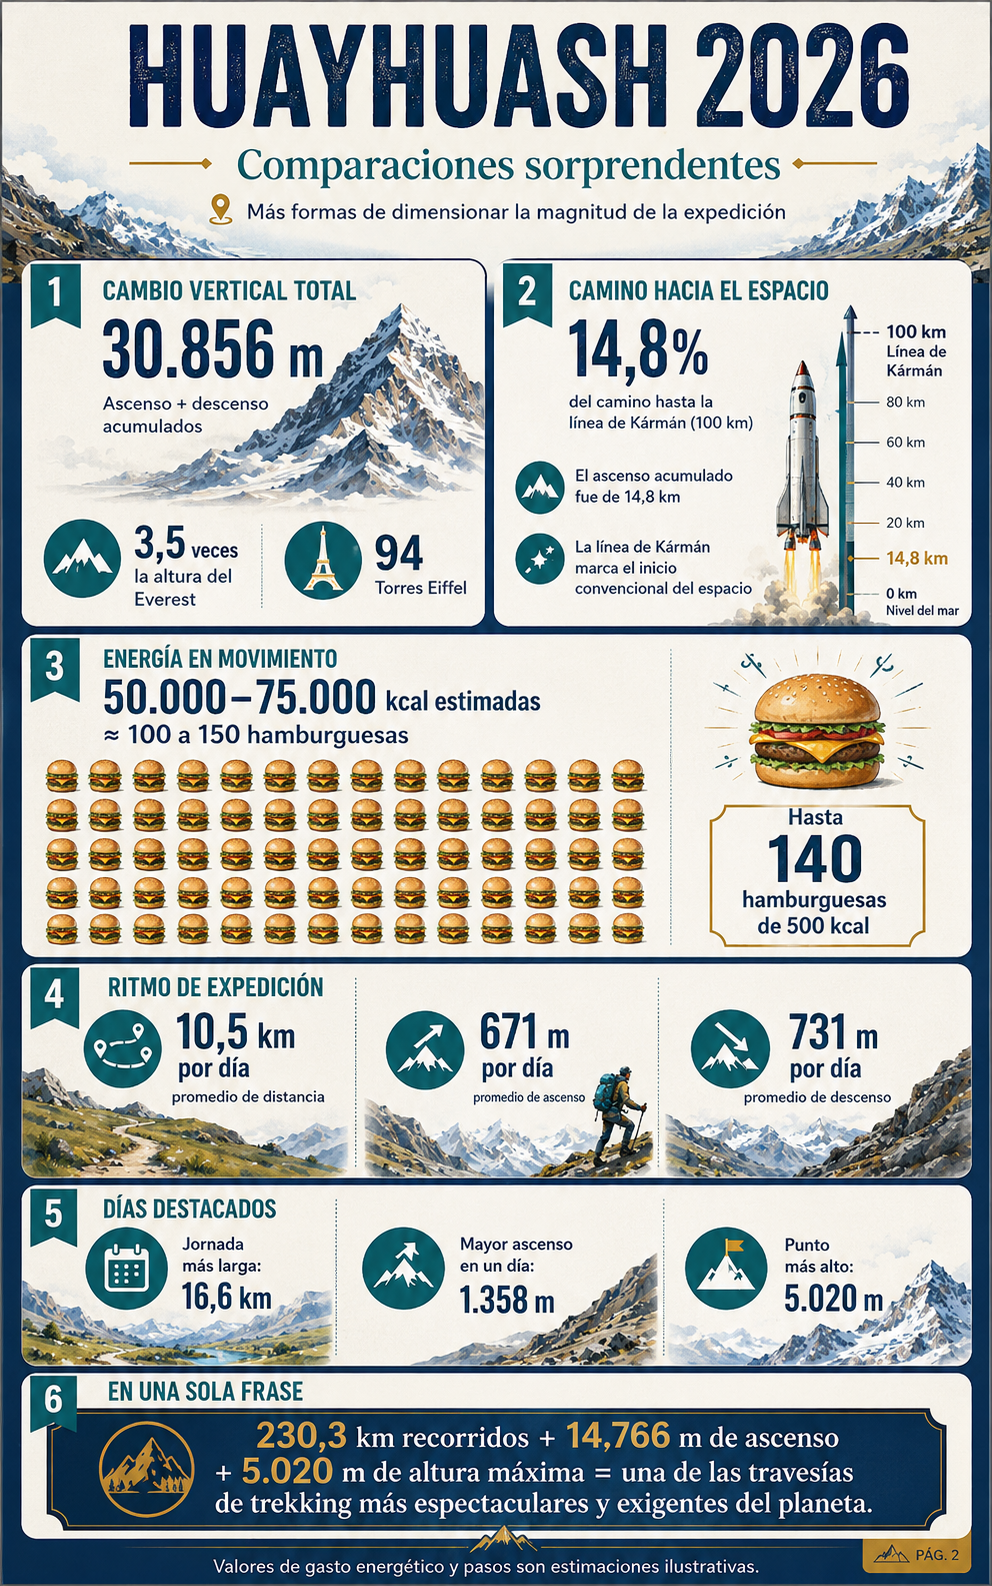
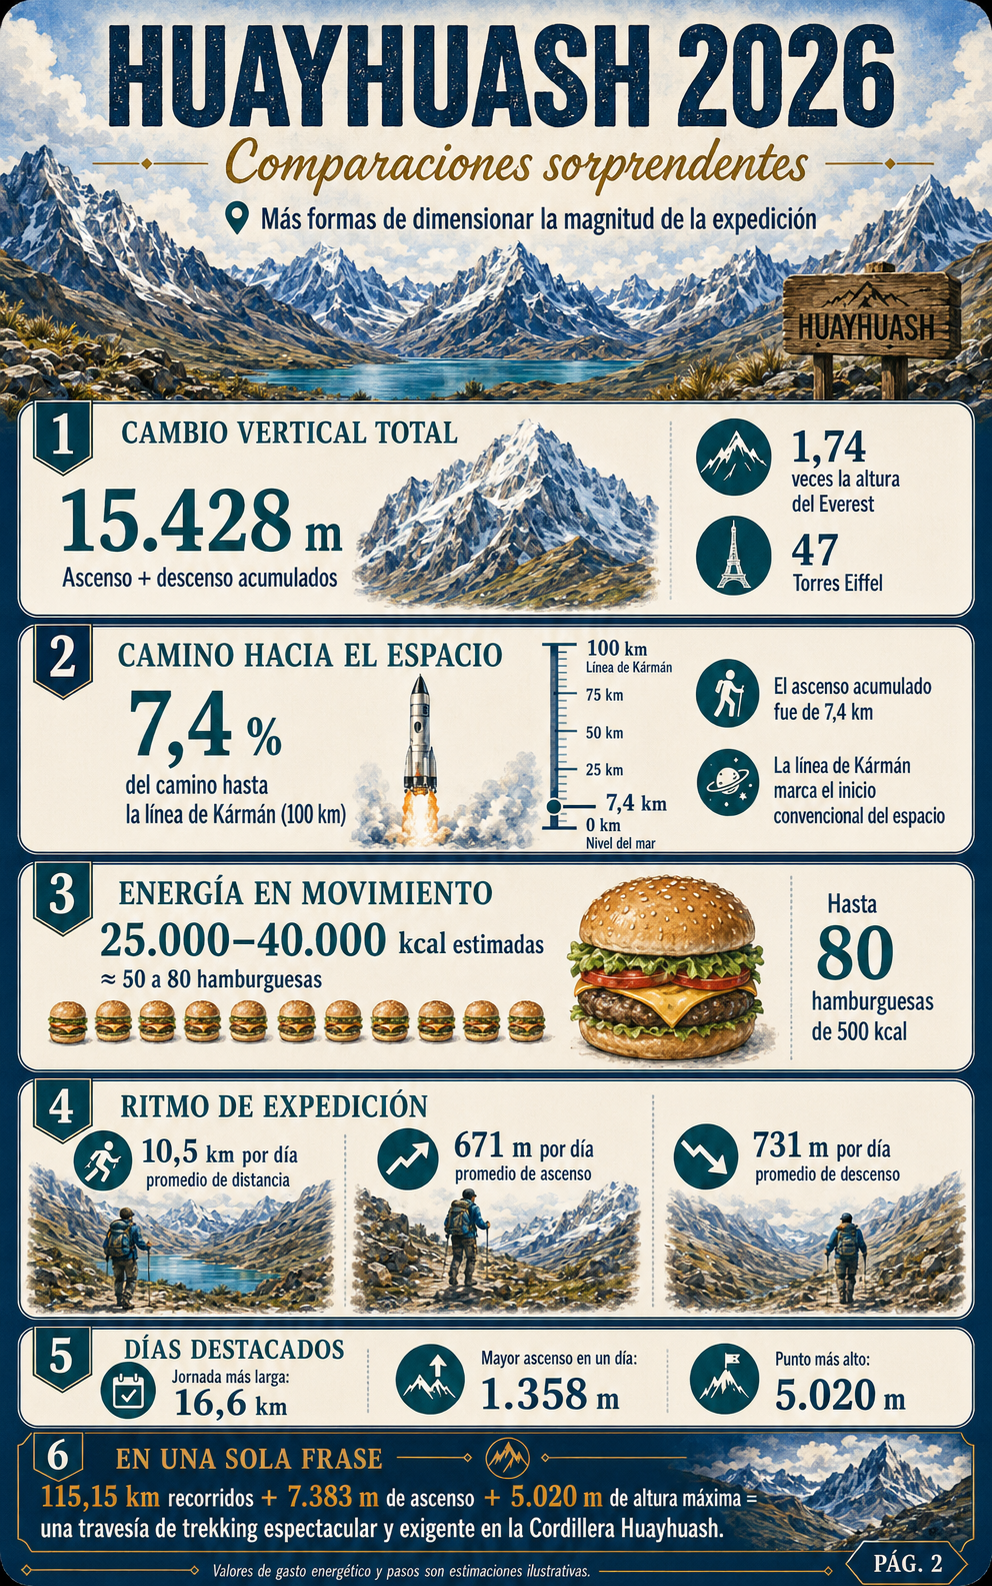
Correct Huayhuash expedition metrics

diff --git a/layouts/huayhuash/list.html b/layouts/huayhuash/list.html
@@ -28,17 +28,17 @@
           <section class="huayhuash-stat-grid" aria-label="Resumen principal de la expedición">
             <article class="huayhuash-stat-card">
               <span class="huayhuash-icon">01</span>
-              <strong>230,3 km</strong>
+              <strong>115,15 km</strong>
               <span>Distancia recorrida</span>
             </article>
             <article class="huayhuash-stat-card">
               <span class="huayhuash-icon">02</span>
-              <strong>14.766 m</strong>
+              <strong>7.383 m</strong>
               <span>Ascenso acumulado</span>
             </article>
             <article class="huayhuash-stat-card">
               <span class="huayhuash-icon">03</span>
-              <strong>16.090 m</strong>
+              <strong>8.045 m</strong>
               <span>Descenso acumulado</span>
             </article>
             <article class="huayhuash-stat-card">
@@ -57,11 +57,11 @@
               </div>
             </div>
             <div class="huayhuash-feature">
-              <strong>230,3 km</strong>
+              <strong>115,15 km</strong>
               <ul>
-                <li>5,5 maratones consecutivas</li>
-                <li>576 vueltas a una pista olímpica</li>
-                <li>Aproximadamente 307.000 pasos</li>
+                <li>2,73 maratones consecutivas</li>
+                <li>288 vueltas a una pista olímpica</li>
+                <li>Aproximadamente 153.500 pasos</li>
               </ul>
             </div>
           </section>
@@ -72,10 +72,10 @@
                 <span class="huayhuash-ribbon">2</span>
                 <div>
                   <p class="huayhuash-eyebrow">Ascenso acumulado</p>
-                  <h2>14.766 m</h2>
+                  <h2>7.383 m</h2>
                 </div>
               </div>
-              <p>Equivale a 45 Torres Eiffel, 17,8 Burj Khalifa y 1,67 veces la altura del Everest.</p>
+              <p>Equivale a 22,4 Torres Eiffel, 8,9 Burj Khalifa y 0,83 veces la altura del Everest.</p>
             </div>
             <div>
               <div class="huayhuash-panel-head">
@@ -99,15 +99,15 @@
             </div>
             <div class="huayhuash-comparison-grid">
               <div>
-                <strong>30.856 m</strong>
+                <strong>15.428 m</strong>
                 <span>Ascenso + descenso acumulados</span>
               </div>
               <div>
-                <strong>3,5 veces</strong>
+                <strong>1,74 veces</strong>
                 <span>la altura del Everest</span>
               </div>
               <div>
-                <strong>94</strong>
+                <strong>47</strong>
                 <span>Torres Eiffel</span>
               </div>
             </div>
@@ -119,20 +119,20 @@
                 <span class="huayhuash-ribbon">5</span>
                 <div>
                   <p class="huayhuash-eyebrow">Camino hacia el espacio</p>
-                  <h2>14,8%</h2>
+                  <h2>7,4%</h2>
                 </div>
               </div>
-              <p>Del camino hasta la línea de Kármán, ubicada a 100 km y usada como inicio convencional del espacio.</p>
+              <p>Del camino hasta la línea de Kármán, ubicada a 100 km y usada como inicio convencional del espacio. El ascenso acumulado fue de 7,4 km.</p>
             </div>
             <div>
               <div class="huayhuash-panel-head">
                 <span class="huayhuash-ribbon">6</span>
                 <div>
                   <p class="huayhuash-eyebrow">Energía en movimiento</p>
-                  <h2>50.000-75.000 kcal</h2>
+                  <h2>25.000-40.000 kcal</h2>
                 </div>
               </div>
-              <p>Gasto estimado equivalente a unas 100 a 150 hamburguesas, hasta 140 hamburguesas de 500 kcal.</p>
+              <p>Gasto estimado equivalente a unas 50 a 80 hamburguesas, hasta 80 hamburguesas de 500 kcal.</p>
             </div>
           </section>
 
@@ -185,7 +185,7 @@
           </section>
 
           <section class="huayhuash-statement">
-            <p><strong>230,3 km</strong> recorridos + <strong>14.766 m</strong> de ascenso + <strong>5.020 m</strong> de altura máxima = una de las travesías de senderismo más espectaculares y exigentes del planeta.</p>
+            <p><strong>115,15 km</strong> recorridos + <strong>7.383 m</strong> de ascenso + <strong>5.020 m</strong> de altura máxima = una travesía de trekking espectacular y exigente en la Cordillera Huayhuash.</p>
           </section>
 
           <section class="huayhuash-infographics" aria-label="Infografías originales de Huayhuash 2026">